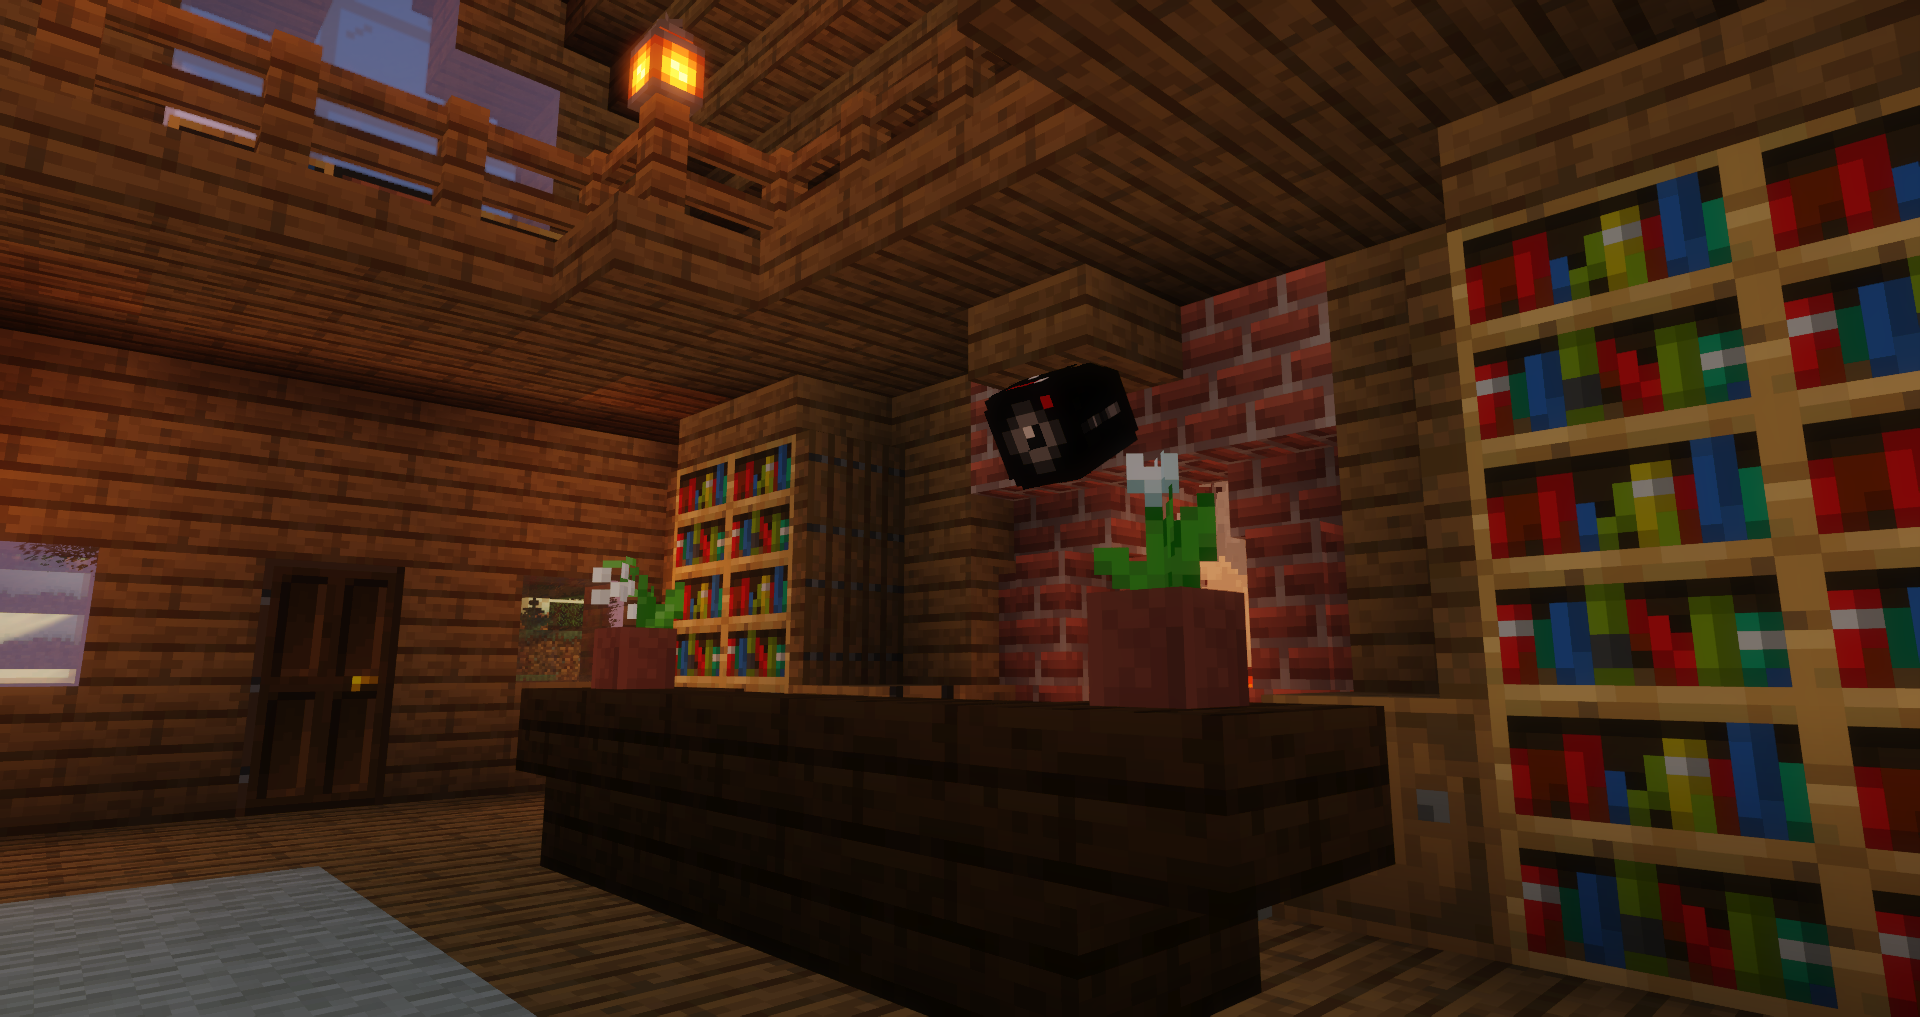
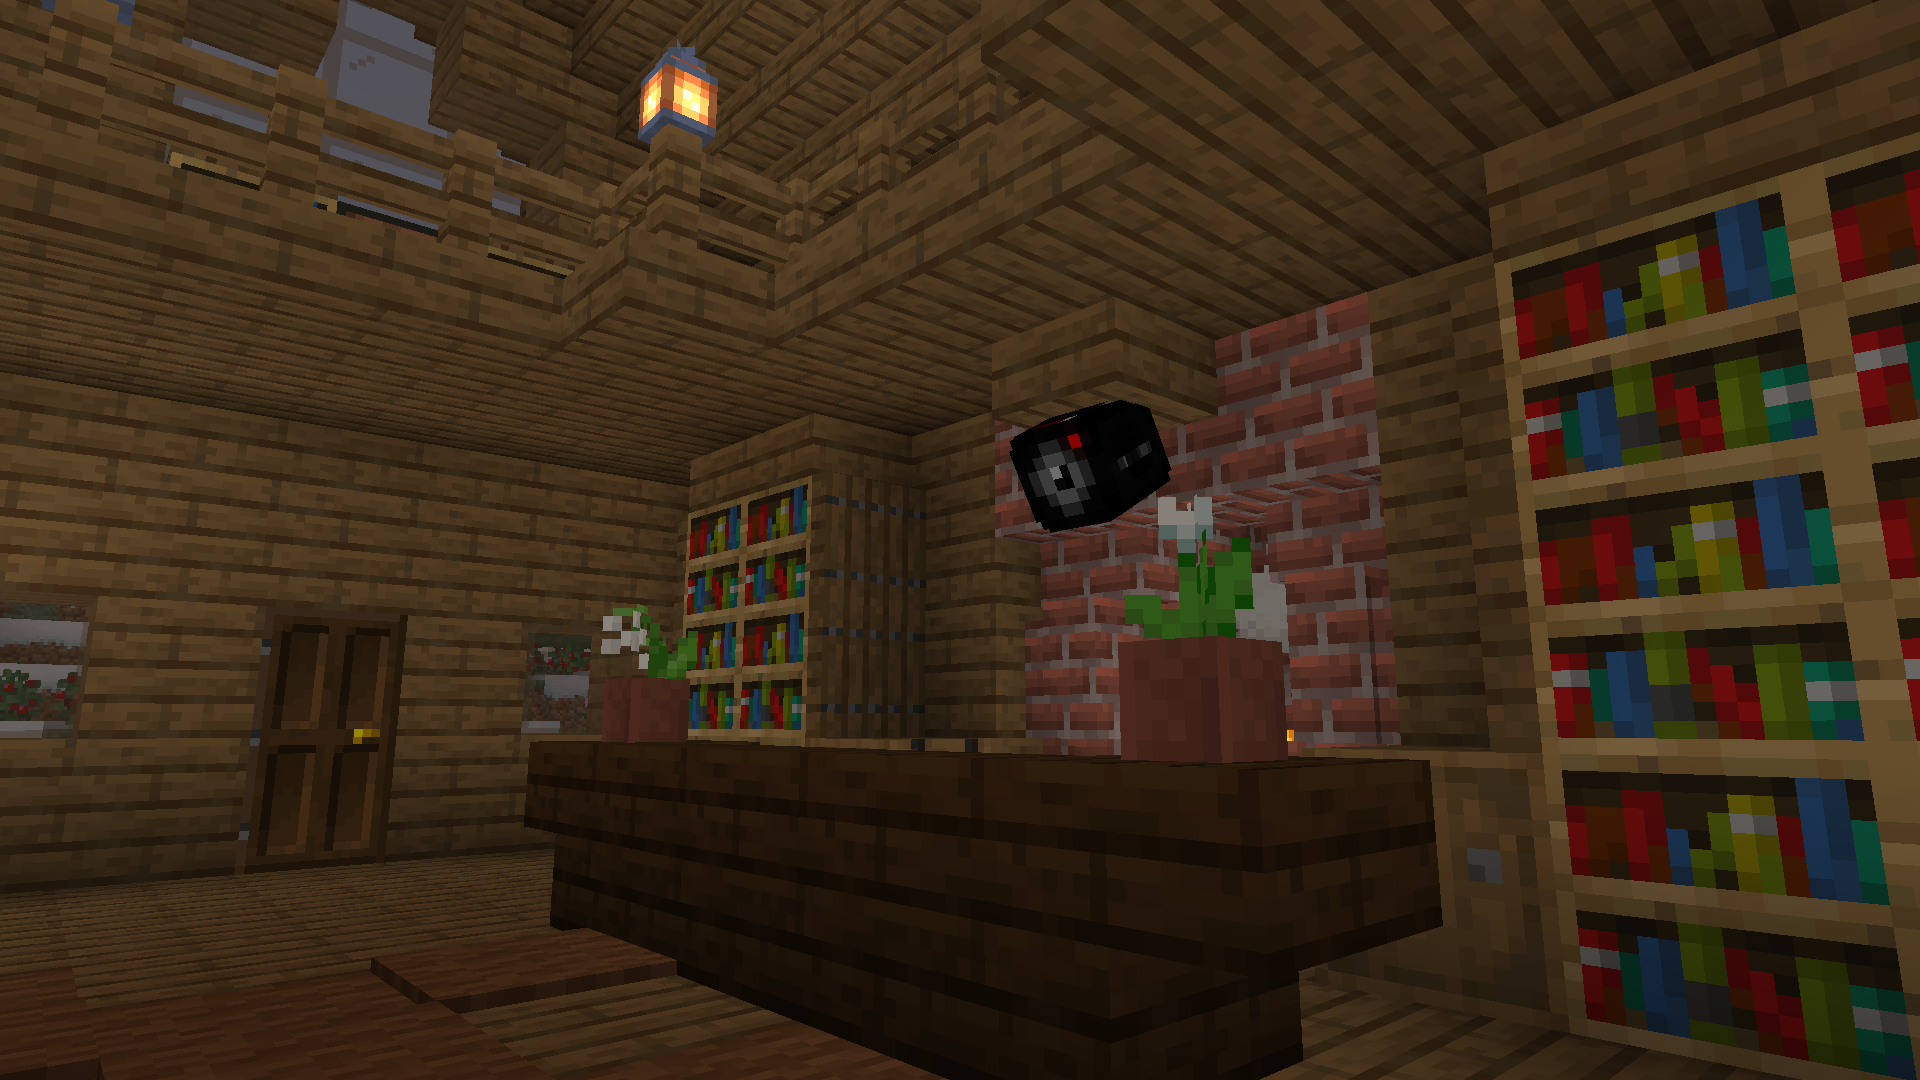
finish

diff --git a/_layouts/patreon.html b/_layouts/patreon.html
@@ -1,0 +1,107 @@
+---
+layout: default
+---
+
+<!-- Page Header -->
+<header class="masthead" style="background-image: url('{{site.baseurl}}/img/{{page.permalink}}/background.jpg')">
+  <div class="overlay"></div>
+  <div class="container">
+    <div class="row">
+      <div class="col-lg-8 col-md-10 mx-auto">
+        <div class="post-heading">
+          <h1 style="display: inline-block;">{{ page.title }}</h1>
+          <span class="badge banner-text badge-yellow">Datapack {{ page.java-version }}</span>
+          {% if page.patreon %}
+          <span class="badge banner-text-follow badge-patreon">Patreon</span>
+          {% endif %}
+        
+        <span class="meta">{{ page.date | date: '%B %d, %Y' }}&nbsp;
+          {% for tag in page.tags %}
+            <span class="badge badge-light">{{ tag }}</span>
+          {% endfor %}
+        </span>
+        <span class="meta">v{{ page.version}}
+        </span>
+      </div>
+      </div>
+    </div>
+  </div>
+</header>
+
+<div class="container">
+  <div class="row">
+      <div class="col-lg-8 col-md-10 mx-auto">
+        {{ content }}
+        <hr>
+        <div class="text-center">
+          {% if page.patreon %}
+          <a href="{{page.patreon}}" class="btn btn-success patreonbtn {% if page.bedrock %}float-right{% endif %}"><i
+            class="fa fa-download"></i> Get it on Patreon</a>
+          {% endif %}
+          {% if page.download %}
+          <a href="{{page.download}}" class="btn btn-success downloadbtn"><i class="fa fa-download"></i> {% if page.patreon %}Get older version{% else %}Download{% endif %}</a>
+          {% endif %}
+        </div>
+        <hr>
+      </div>
+    </div>
+  </div>
+<div class="container">
+To install a datapack, drop the datapack file inside the "datapacks" folder inside your world folder, then type "/reload" in-game.
+<hr>
+</div>
+<br>
+  <!-- Pictures -->
+  <div style="text-align: center;">
+    <h2>Media</h2>
+  </div>
+  <div class="container-fluid">
+    <div class="row justify-content-center">
+      <div class="col-md-8">
+        <div class="row">
+          {% if page.trailer %}
+          <a href="{{page.trailer}}&amp;rel=0" data-width="1280" data-toggle="lightbox" data-gallery="example-gallery"
+            class="col-sm-4 mappic">
+            <img class="playBtn" src="{{site.baseurl}}/img/playbtn.svg" />
+            {% else %}
+            <a href="{{site.baseurl}}/img/{{page.permalink}}/thumbnail.png" data-width="1280" data-toggle="lightbox"
+              data-gallery="example-gallery" class="col-sm-4 mappic">
+              {% endif %}
+              <img src="{{site.baseurl}}/img/{{page.permalink}}/thumbnail.png" class="img-fluid">
+            </a>
+            <a href="{{site.baseurl}}/img/{{page.permalink}}/pic_0.jpg" data-toggle="lightbox"
+              data-gallery="example-gallery" class="col-sm-4 mappic">
+              <img src="{{site.baseurl}}/img/{{page.permalink}}/pic_0.jpg" class="img-fluid">
+            </a>
+            <a href="{{site.baseurl}}/img/{{page.permalink}}/pic_1.jpg" data-toggle="lightbox"
+              data-gallery="example-gallery" class="col-sm-4 mappic">
+              <img src="{{site.baseurl}}/img/{{page.permalink}}/pic_1.jpg" class="img-fluid">
+            </a>
+        </div>
+        <div class="row">
+          <a href="{{site.baseurl}}/img/{{page.permalink}}/pic_2.jpg" data-toggle="lightbox"
+            data-gallery="example-gallery" class="col-sm-4 mappic">
+            <img src="{{site.baseurl}}/img/{{page.permalink}}/pic_2.jpg" class="img-fluid">
+          </a>
+          <a href="{{site.baseurl}}/img/{{page.permalink}}/pic_3.jpg" data-toggle="lightbox"
+            data-gallery="example-gallery" class="col-sm-4 mappic">
+            <img src="{{site.baseurl}}/img/{{page.permalink}}/pic_3.jpg" class="img-fluid">
+          </a>
+          <a href="{{site.baseurl}}/img/{{page.permalink}}/pic_4.jpg" data-toggle="lightbox"
+            data-gallery="example-gallery" class="col-sm-4 mappic">
+            <img src="{{site.baseurl}}/img/{{page.permalink}}/pic_4.jpg" class="img-fluid">
+          </a>
+        </div>
+      </div>
+    </div>
+  </div>
+  <br>
+
+  <!-- Comments -->
+  <div class="container">
+    <div style="text-align: center;">
+      <h2>Comments</h2>
+    </div>
+    <div id="commento"></div>
+  </div>
+  <script src="https://cdn.commento.io/js/commento.js"></script>

diff --git a/patreon-exclusives/index.html b/patreon-exclusives/index.html
@@ -1,21 +1,21 @@
 ---
 layout: page
-title: Maps
+title: Patreon Exclusives
 background: '/img/bg-map.jpg'
 ---
 <div class="container">
-More maps are to come in the future!
+The following posts are only available on Patreon, with more to come!
 <hr>
 <div class="container-fluid">
   <div class="card-deck" style="justify-content: center;">
-    {% for post in paginator.posts %}
-    {% if post.layout == 'map' %}
+    {% for post in site.posts %}
+    {% if post.patreon %}
     <div class="card mapcard" onclick="location.href='{{ post.url | prepend: site.baseurl | replace: '//', '/' }}';">
       <img class="card-img-top" src="{{site.baseurl}}/img/{{post.permalink}}/thumbnail.png" alt="Card image cap">
       <div class="card-body">
         <h4 class="card-title">{{ post.title }}</h4>
-        {% if post.layout == 'map' %}
-          <span class="badge badge-green">{{ post.layout | capitalize }} {{post.java-version}}</span>
+        {% if post.patreon %}
+          <span class="badge badge-yellow">{{ post.layout | capitalize }} {{post.java-version}}</span>
         {% endif %}
         {% if post.patreon %}
           <span class="badge badge-patreon">Patreon</span>
@@ -23,7 +23,7 @@ More maps are to come in the future!
         {% for tag in post.tags %}
           <span class="badge badge-secondary">{{ tag }}</span>
         {% endfor %}
-        <p class="card-text"> {{post.short-description}} </p>
+        <p class="card-text">{{post.short-description}}</p>
         <p class="post-meta"> {% if post.version %}v{{post.version}} - {% endif %}{{ post.date | date: '%B %d, %Y' }}
         </p>
       </div>

diff --git a/index.html b/index.html
@@ -3,9 +3,7 @@ layout: home
 background: '/img/bg-index.jpg'
 ---
 <div class="container">
-Welcome to PvPqnda's website! Here, you can find all the information you need about my maps, and how to play them!<br>
-Newest Post:
-<a href="/datapacks/lit-lamps" target="_blank"style="text-decoration: underline;">Lit Lamps<a><br>
+Welcome to PvPqnda's website! Here, you can find all the information you need about my maps, and how to play them!<br><br>
 ⚠ MAJOR UPDATE ⚠ </a><a href="/datapacks/security-cameras" target="_blank"style="text-decoration: underline;">Security Cameras 2.0<a></a>
 <hr>
 </div>

diff --git a/_includes/navbar.html b/_includes/navbar.html
@@ -27,6 +27,9 @@
         <li class="nav-item">
           <a class="nav-link" target=”_blank” href="https://discord.gg/{{ site.discord_group }}">Discord</a>
         </li>
+        <li class="nav-item">
+          <a class="nav-link" target=”_blank” href="/patreon-exclusives">Patreon</a>
+        </li>
       </ul>
     </div>
 </nav>

diff --git a/datapacks/index.html b/datapacks/index.html
@@ -4,7 +4,7 @@ title: Datapacks
 background: '/img/bg-map.jpg'
 ---
 <div class="container">
-New datapacks are posted on Fridays!
+More datapacks coming soon!
 <hr>
 <div class="container-fluid">
   <div class="card-deck" style="justify-content: center;">

diff --git a/_posts/0000-00-00-security-cameras.md b/_posts/0000-00-00-security-cameras.md
@@ -2,11 +2,11 @@
 layout: datapack
 title: "Security Cameras"
 permalink: /datapacks/security-cameras
-date: 2022-08-19
+date: 2022-10-07
 short-description: "Want to go on adventures but check on your base? Get security cameras."
 download: "/downloads/datapacks/Security Cameras.zip"
 patreon: "https://www.patreon.com/pvpqnda"
-trailer: "https://youtu.be/1z1ojLY2aiA"
+trailer: "https://youtu.be/ojSIsmHMZVk"
 tags: ["Item"]
 java-version: "1.16+"
 version: 2.0.0
@@ -17,28 +17,88 @@ Created by: PvPqnda
 
 **Datapack Features:**
 
-- Adds security cameras into the game!
+   * Adds feature-packed security cameras into the game!
 
-- Craft security cameras by dropping any same number of iron ingots, glass panes, and redstone torches!
+   * Craft security cameras by dropping any same number of iron ingots, glass panes,
+      and redstone torches on the ground!
 
-- Placing a security camera on the underside of a block will face it towards you and generate a number ID linked to the camera which is what you use to view the camera!
+   * Placing a security camera on the underneath a block will face it towards you and
+      generate a number ID linked to the camera which is what you use to view the
+      camera!
 
-- Anyone is able to enter any camera from any location and dimension as long as they know the correct ID, and exiting will return the player back to their previous position and gamemode!<br>
-However, players in survival/adventure must be standing on a block to enter a
-camera, and will be vulnerable to a 10 second cooldown timer that stops the player from entering a camera within 10 seconds of taking or dealing damage.<br>
-This is to prevent anyone from attempting to defy risky situations.
+   * Once a camera is placed, it will automatically start rotating in a 90 degree
+      window centered around its rotation when you initially place it.<br>
+     To toggle a camera's automatic rotation, type: "/trigger ToggleRotation"
 
-- Once a camera is placed, it will automatically start rotating in a 90 degree window centered around its rotation when you initially place it. To toggle a camera's automatic rotation, type: "/trigger ToggleRotation"
+   * To list the IDs of all existing cameras you've placed, type: "/trigger Cameras"!
+      Listing your cameras will number them in the order you've placed them, display
+      their locked/unlocked statuses, their IDs, and coordinates that are color coded
+      by the dimension the camera is in.<br>
+      *(Coordinates are replaced by the camera's custom name if it has one)*<br>
+     Admins may list ALL camera IDs by typing:
+      "/function securitycameras:list/all"<br>
+     Admins may list all OTHERS camera IDs by typing:
+      "/function securitycameras:list/others"
 
-- To break a camera, simply destroy the block it is hanging from.
+   * To enter a camera, either simply type: "/trigger Camera set \<ID>", or type:
+      "/trigger Camera set ?" replacing the "?" with the number camera you've placed
+      that you'd like to enter. E.g. Running "/trigger Camera set 3" will cause you
+      to enter the 3rd camera you've placed, being the 3rd camera on your camera ID
+      list in "/trigger Cameras"
 
-- To enter a camera, type: "/trigger Camera set \<ID>"
+   * Cameras have a red light on the front that blinks if the camera is in use!<br>
+     *(Blinking conditions can be customized)*
 
-- To list the IDs of all existing cameras you've placed, type: "/trigger Cameras"
+   * Anyone is able to enter any of their cameras from any location and dimension,
+      and exiting will return them back to their previous position and gamemode!<br>
+     However, survival/adventure mode players must be standing on a block to enter a
+      camera, and will be vulnerable to a 10 second combat cooldown that stops them
+      from entering a camera within 10 seconds of taking or dealing damage prior in
+      order to prevent anyone from attempting to defy risky situations.
+     *(Can be toggled in the Admin Info page)*
 
-- Admins may list ALL camera IDs by typing: "/function securitycameras:list/all"
+   * To destroy a camera, simply break the block it is hanging from.
 
-- Admins may list all OTHERS camera IDs by typing: "/function securitycameras:list/others"
+   * Camera "Portals" are able to be made that are placed on a block and can be
+      right-clicked in order to enter a camera from a certain location without
+      needing to type anything!<br>
+     Link a camera "portal" to a camera you own, or an unlocked camera another
+      player owns, by placing an item frame, framing an item in it, and typing:
+      "/trigger LinkPortal set \<Camera ID>"<br>
+      *(Can be toggled in the Admin Info page)*
+
+   * All cameras are capable of built-in "Motion Detection" that must be manually
+      enabled in each camera by their owners using: "/trigger MotionDetectionOn",
+      or disabled using: "/trigger MotionDetectionOff".<br>
+     Camera motion detection alerts camera owners if another player is spotted
+      in-frame with a 70 degree FOV, unless the player is in an unlit area.<br>
+      *(The low-lighting debuff is bypassed with camera night vision)*<br>
+     *(Camera motion detection can be toggled as a whole in the Admin Info page)*
+
+   * Camera "Night Vision" can be applied to each camera by their owners by inserting
+      golden carrots into the camera using "/trigger AddNightVision set ?" replacing
+      the "?" with the number of golden carrots in the player's inventory to spend,
+      each adding 15 minutes of night vision.<br>
+      *(Can be toggled per camera by their owners using "/trigger ToggleNV")*<br>
+     The golden carrot requirement can be toggled in the Admin Info page, allowing
+      all cameras to have night vision enabled by their owners using
+      "/trigger Toggle NV"<br>
+     *(Camera night vision can be toggled as a whole in the Admin Info page)*
+
+   * Cameras can be given custom names, by right-clicking them with a renamed name
+      tag, that are displayed in "/trigger Cameras", when entering/exiting the
+      camera, and more!
+
+   * Cameras can be locked or unlocked by their owners (locked by default) allowing
+      other players to enter someone else's unlocked camera if they know the ID from
+      the owner sharing it, using "/trigger LockCamera" and "/trigger UnlockCamera"!
+
+   * There are 18 customizable settings and 9 different server statistics for admins
+      to access using the command: "/function securitycameras:admin_info"
+
+   * Anyone can see how many cameras they have, and what settings are
+      enabled/disabled by typing: "/trigger SecurityCameras"<br>
+     *(Can be toggled in the Admin Info page)*
 
 *Survival & Multiplayer friendly*
 
@@ -51,11 +111,35 @@ This is to prevent anyone from attempting to defy risky situations.
 
 <div id="changelog" class="collapse" aria-labelledby="changelogBtn" data-parent="#accordion">
       <div class="card-body">
-<b>v2.0.0</b> - <em>? ?, 2022</em><br>
+<b>v2.0.0</b> - <em>October 7, 2022</em><br>
 <br>
-- <br>
-- <br>
-- <br>
+- Added an Admin Info page<br>
+- Added camera "Portals"<br>
+- Added camera "Motion Detection"<br>
+- Added camera "Night Vision"<br>
+- Added "Quick Entering"<br>
+- The nametags of players in security cameras now remain at players' positions before entering a camera, with an indicator indicating so<br>
+- Cameras are now able to be given custom names<br>
+- Added camera locking/unlocking<br>
+- Cameras now use rotation, and the lights on them now blink, either always, or only if the camera is in use<br>
+- Listing camera IDs will now also number them in order, show their locked/unlocked status, along with either their custom name or their coordinates, color coded with the dimension they're in<br>
+- Added the option to use a customizable "Timed View" setting in the Admin Info page limiting the amount of time survival/adventure mode players may spend in cameras before being kicked out automatically<br>
+- Added the option to use a customizable "Enter Delay" setting in the Admin Info page, setting a cooldown for survival/adventure mode players entering cameras<br>
+- Players in their own unlocked cameras are now displayed a list of other players also in the camera<br>
+- Cameras now alert their owners upon being destroyed<br>
+- Cameras can now be placed inside of unobstructive blocks such as tall grass and scaffolding<br>
+- Camera IDs can now only be positive<br>
+- Added click events to aspects in the chat message sent upon placing a new camera<br>
+- Fixed cameras being unable to be placed underneath slabs<br>
+- Fixed bug moving camera rotation windows upon server restart<br>
+- Fixed bug allowing players to view freely after relogging from inside a camera<br>
+- Fixed bug stating an ID of a different existing camera in the camera-exit message when the camera you're in is destroyed<br>
+- Fixed exiting a camera by switching gamemodes overriding your new gamemode by setting it to what it was at the time of initially entering a camera<br>
+- Added a warning message for when using the datapack in an older unsupported version of Minecraft<br>
+- Tweaked camera texture<br>
+- Reliability improvements<br>
+- Performance improvements<br>
+- Added a datapack icon<br>
 <br>
 <b>v1.1.0</b> - <em>June 12, 2022</em><br>
 <br>

diff --git a/_posts/0000-00-00-dodge-tag.md b/_posts/0000-00-00-dodge-tag.md
@@ -4,7 +4,6 @@ title: "Dodge Tag"
 date: 2022-06-13
 permalink: /maps/dodge-tag
 short-description: "Dodge Tag is a parkour-tag based minigame with multiple modes for you and your friends!"
-patreon: "https://www.patreon.com/pvpqnda"
 tags: ["Minigame","Parkour","PvP / PvE","1+ Players"]
 java-version: "1.19"
 version: 1.0.1
